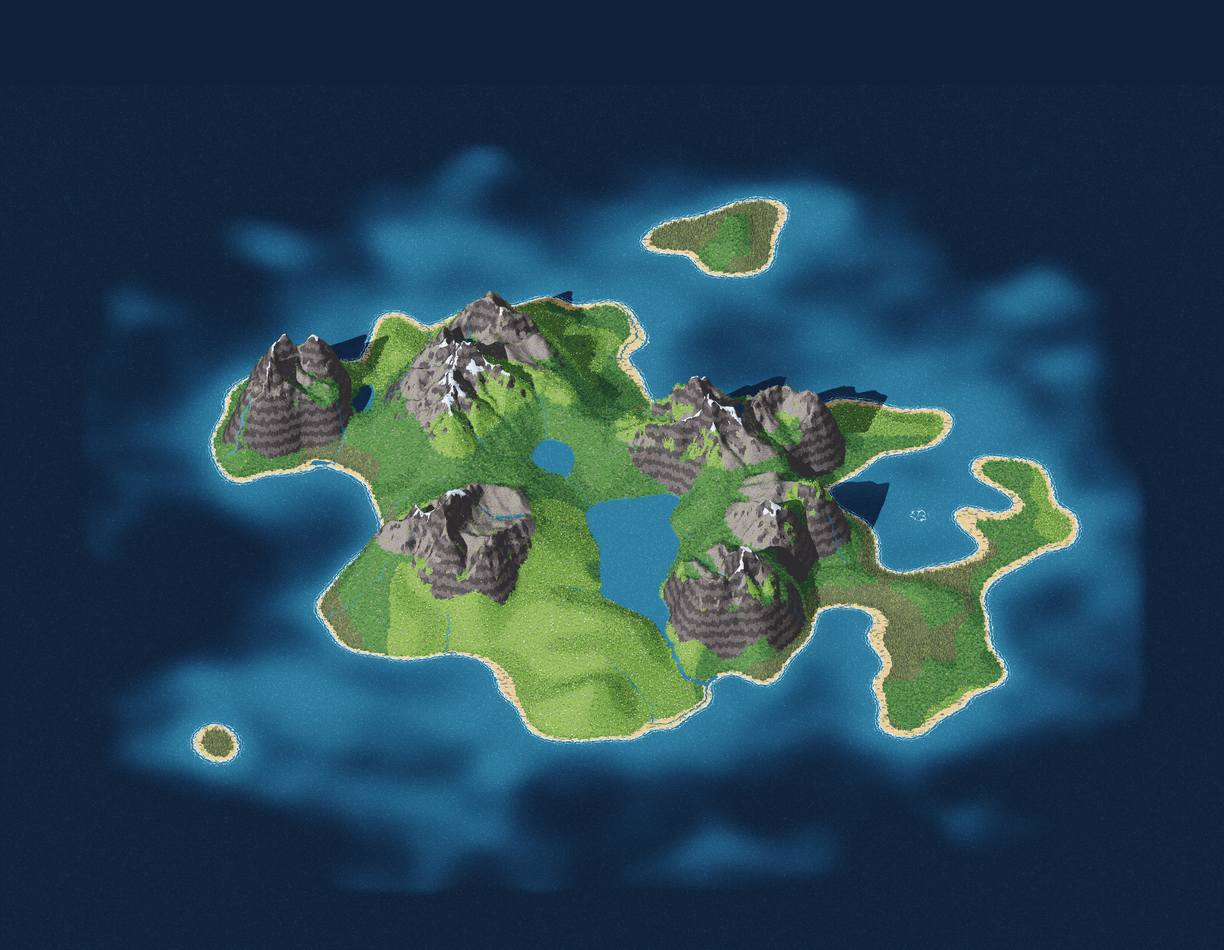
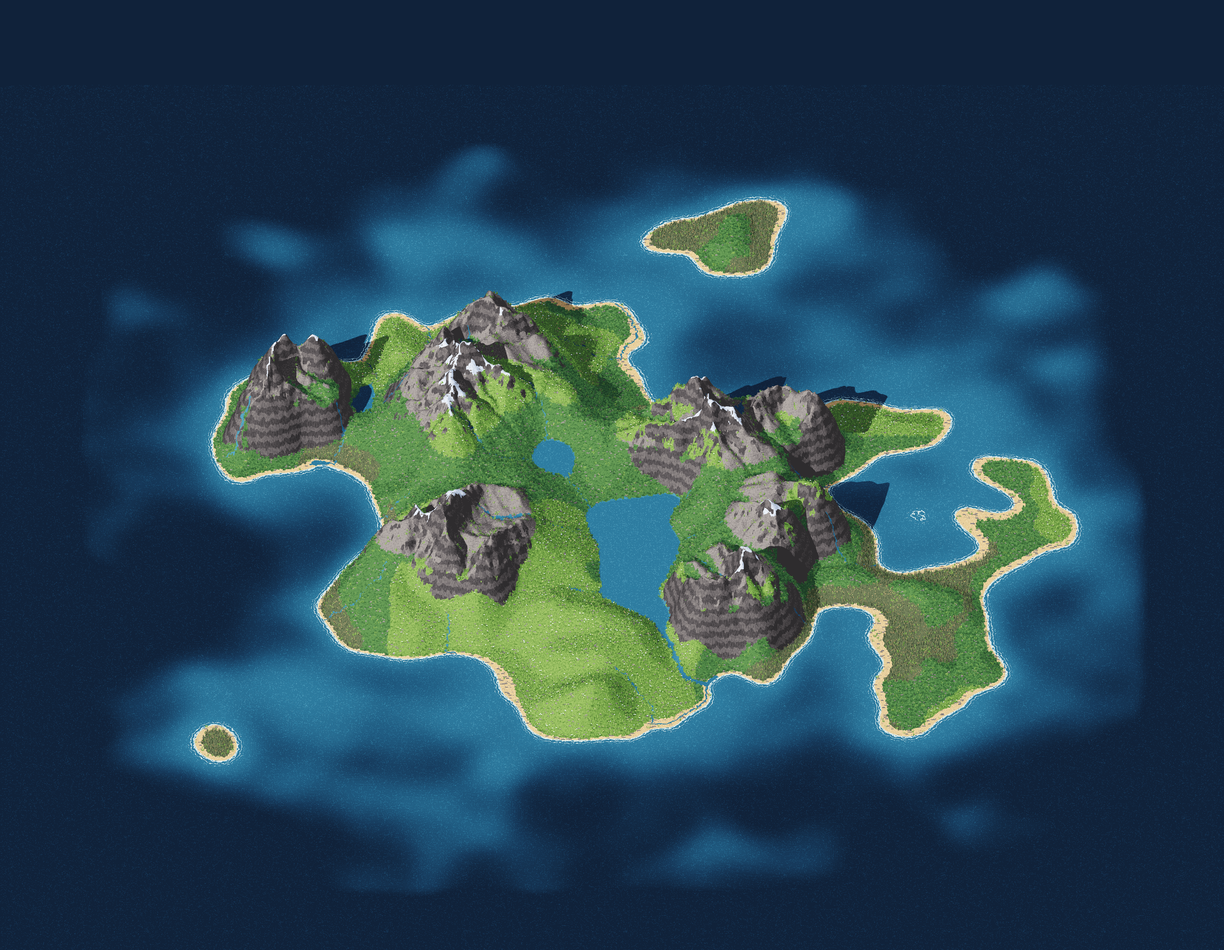
chore: tune exploring after playtesting milestone 4 (#103)
Closes #73. Closes #12.

The third of three stacked PRs, on top of #102. Merge #101 and #102
first.

## What changed

| Value | Before | After | Why |
|---|---|---|---|
| Peak prominence (`Peaks.MIN_PROMINENCE`) | 0.25 | 0.2 | Seed 2 had
only 3 peaks. |
| Peak height (`Peaks.MIN_HEIGHT`, new) | none | 0.5 of the summit |
Four of seeds 0 to 9 counted a lone lowland knoll at 29 to 58% of the
summit's height. |
| Survey zone (`Peak.ZONE_RADIUS`) | 3 cells | 5 cells | The figure now
walks up to the top itself, so 3 cells only made the player hunt for the
top. |
| Zone ring shows from (`Survey.MARKER_REACH`) | 6 cells | 10 cells |
Twice the zone. |
| Eye height (`LineOfSight.EYE_HEIGHT`) | 1.5 | 8 world units | The
player had to stand at a cliff's very edge to clear the fog below it. |
| Contour interval | 0.02 | 0.04, every fifth line one cell wide | The
sides of the massifs turned into solid bands of ink. |
| Walking speed (`Player.SPEED`) | 3.5 | 5 cells/s | Walks of 100 to 200
cells between massifs felt slow. |

The view radius stays at 40 to 120 cells. Letting tall land show from
further away was dropped: the camera looks down, so it would mostly add
land to the map, not to the screen.

The title backdrop (`game/backdrop.png`) is rendered again, since the
peak cutoffs change where `WaysUp` raises cells. `SPEC.md` records every
value and why.

## What I checked

- All 61 tests pass. The peak test now asks for at least 5 peaks and
[…]

diff --git a/SPEC.md b/SPEC.md
@@ -12,14 +12,14 @@ A run starts from a title screen with "Ny øy" and a small, optional seed field 
 
 ## Core mechanics
 
-**Line of sight.** You see a radius around you, and higher terrain blocks your view. The radius is 40 cells at sea level and grows to about 120 cells at summit height, so choosing which hill to climb is the main exploration decision. Land you have seen stays revealed and never fades back into fog. All radii are starting values to tune in milestone 4.
+**Line of sight.** You see a radius around you, and higher terrain blocks your view. The radius is 40 cells at sea level and grows to about 120 cells at summit height, so choosing which hill to climb is the main exploration decision. Land you have seen stays revealed and never fades back into fog. Milestone 4 kept these radii. Letting tall land show from further away was dropped: the camera looks down, so a peak only looks tall once the player is on it, and the extra land would show on the map but hardly on screen.
 
 **Automatic mapping.** The map fills in at two levels:
 
 - Walking marks land in your line of sight as seen. Seen land gets coastlines, rivers and rough outlines on the map.
 - Surveying from a peak marks land as surveyed. Surveyed land also gets contour lines.
 
-**Peaks and surveying.** The peaks stand on 6 to 9 massifs that the generator raises on purpose (generator step 1), and only massifs reach the snow. The generator stores every top that rises at least 25% of the summit's height above the saddle to any higher top. The massifs stand in ranges with saddles at about half the summit's height, and at 35% only 2 to 4 of their tops counted. Seeds 0 to 9 give 3 to 12 peaks, 8 of the 10 in the range of 5 to 10, a number to tune after playtesting. The player can walk from the start up to every peak's top, or a cell beside it (generator step 5). Each peak has a survey zone with a radius of 3 cells. Within 6 cells of an unsurveyed top, a thin ring floats over the zone's edge, so the player can find the top. It hangs 0.4 world units above the highest ground along that edge, bobs 0.15 units every 2 seconds, and pulses by dithering its light middle between two snow steps. It is about 4 pixels thick, light in the middle and dark at the edges, so it shows against snow and rock, and it dithers in and out over half a second. A circle painted on the ground came first, but it wobbled with every bump in the slope, and a width set in cells grew to 8 pixels where a steep slope faces the camera. With a 6-cell zone and no ring, the prompt came up well below the top of a steep peak. Standing in a zone shows "Kartlegg toppen". Pressing F walks the figure up to a cell beside the top along a path of steps it can take, a few cells at walking speed, and then plays a short survey animation. Before the walk, a survey started at the zone's edge happened below the top. Surveying uses the same line of sight with twice the walking radius and marks everything it reaches as surveyed. The animation ends with your character stacking a varde on the peak, so every surveyed peak gets one of your vardes on the map. Your vardes have no other effect. The survey takes about 6.5 seconds. For 5 seconds the camera pulls out over 2 seconds from zoom 40 to 120, three times the walking view, and turns once around, clockwise, in four quarter turns, so the player sees the fog clear on every side of the peak. The figure faces away from the camera and turns with it, so it looks out over each side as the camera shows it. A figure turning smoothly once around with the camera only swung within a quarter turn of facing the camera, and didn't read as looking around. Each side holds still for 0.85 seconds before the next 0.4-second turn, and the last turn ends as the look does, back at the heading the survey started from. Q and E do nothing during a survey. A smooth spin would hold the camera off its pixel grid for the whole 5 seconds, where the dither and the edges shimmer. Meanwhile the fog clears from the surveyed land in a ring that spreads from the peak over 4.5 seconds. Then the figure turns to the top, and over 1.5 seconds the varde goes up stone by stone as the camera comes back to zoom 40. A pull-out to 80 over 3 seconds looked tame and hurried, and at 160 the figure and the varde shrank to a few pixels. Each peak can be surveyed once. The varde is 12 flattened, faceted spheres in six layers of three, three, two, two, one and one stones, a little shorter than the figure, lit by the figure's shader in a stone ramp of every other rock step. Its shape comes from the peak's cell, so a peak always gets the same varde. It stands on the top cell, since the walk stops a cell short of it. Only where every cell around the top is cliff does the figure stand on the top, and then the varde goes up a cell away. The prompt reads "[F] Kartlegg toppen" in snow-white text with a dark outline at the bottom of the screen and fades in and out over 0.2 seconds. It is the first HUD element.
+**Peaks and surveying.** The peaks stand on 6 to 9 massifs that the generator raises on purpose (generator step 1), and only massifs reach the snow. The generator stores every top that stands at least 50% of the summit's height and rises at least 20% of it above the saddle to any higher top. The massifs stand in ranges with saddles at about half the summit's height, and at 35% only 2 to 4 of their tops counted. At 25%, seed 2 had 3 peaks, and four of seeds 0 to 9 counted a lone knoll at 29 to 58% of the summit's height, which the height cut now drops. Seeds 0 to 9 give 6 to 12 peaks, aiming for 5 to 10, with more on the islands that have room for more massifs. The player can walk from the start up to every peak's top, or a cell beside it (generator step 5). Each peak has a survey zone with a radius of 5 cells. Within 10 cells of an unsurveyed top, a thin ring floats over the zone's edge, so the player can find the top. It hangs 0.4 world units above the highest ground along that edge, bobs 0.15 units every 2 seconds, and pulses by dithering its light middle between two snow steps. It is about 4 pixels thick, light in the middle and dark at the edges, so it shows against snow and rock, and it dithers in and out over half a second. A circle painted on the ground came first, but it wobbled with every bump in the slope, and a width set in cells grew to 8 pixels where a steep slope faces the camera. With a 6-cell zone and no ring, the prompt came up well below the top of a steep peak, so the zone shrank to 3. Once the figure walked up to the top itself, 3 cells only made the player hunt for the top's few cells, so it grew to 5. Standing in a zone shows "Kartlegg toppen". Pressing F walks the figure up to a cell beside the top along a path of steps it can take, a few cells at walking speed, and then plays a short survey animation. Before the walk, a survey started at the zone's edge happened below the top. Surveying uses the same line of sight with twice the walking radius and marks everything it reaches as surveyed. The animation ends with your character stacking a varde on the peak, so every surveyed peak gets one of your vardes on the map. Your vardes have no other effect. The survey takes about 6.5 seconds. For 5 seconds the camera pulls out over 2 seconds from zoom 40 to 120, three times the walking view, and turns once around, clockwise, in four quarter turns, so the player sees the fog clear on every side of the peak. The figure faces away from the camera and turns with it, so it looks out over each side as the camera shows it. A figure turning smoothly once around with the camera only swung within a quarter turn of facing the camera, and didn't read as looking around. Each side holds still for 0.85 seconds before the next 0.4-second turn, and the last turn ends as the look does, back at the heading the survey started from. Q and E do nothing during a survey. A smooth spin would hold the camera off its pixel grid for the whole 5 seconds, where the dither and the edges shimmer. Meanwhile the fog clears from the surveyed land in a ring that spreads from the peak over 4.5 seconds. Then the figure turns to the top, and over 1.5 seconds the varde goes up stone by stone as the camera comes back to zoom 40. A pull-out to 80 over 3 seconds looked tame and hurried, and at 160 the figure and the varde shrank to a few pixels. Each peak can be surveyed once. The varde is 12 flattened, faceted spheres in six layers of three, three, two, two, one and one stones, a little shorter than the figure, lit by the figure's shader in a stone ramp of every other rock step. Its shape comes from the peak's cell, so a peak always gets the same varde. It stands on the top cell, since the walk stops a cell short of it. Only where every cell around the top is cliff does the figure stand on the top, and then the varde goes up a cell away. The prompt reads "[F] Kartlegg toppen" in snow-white text with a dark outline at the bottom of the screen and fades in and out over 0.2 seconds. It is the first HUD element.
 
 **The summit is hard to find.** Three to five contender peaks have heights within about 10 to 15% of each other, and only some of them reach snow. The generator rescales only the contenders into that band and leaves the smaller peaks and hills alone, which can be half the summit's height or lower. From below you can't tell which contender is highest. Cliffs and ridges block the direct way up, so you have to find a pass, a ridge or a valley that leads there. The generator guarantees at least one walkable route from the landing beach.
 
@@ -60,7 +60,7 @@ The style is detailed pixel art: individual pixels everywhere, textured material
 **The map screen** is ink on aged paper, drawn at 1024×1024 pixels (one pixel per cell) into a `SubViewport`. It opens as a square sheet 90% of the screen's height, with the run going on behind it on both sides, so the player can walk with the map open. M opens and closes it, and Escape closes it too. The sheet keeps the player in its middle until the player drags it. The mouse wheel or + and - zoom between the zoom that fits the whole island on the sheet and 1, 2 and 4 screen pixels per cell. It keeps its zoom between closing and reopening it within a run, and a new run opens at the first zoom again. North is always up. A red dot marks the player, with a pointer on its edge the way the figure faces and a faint red wedge toward where the camera looks, and a small ink cairn marks each varde the player has built.
 
 - Unknown cells stay blank paper, with a grain of stained pixels and yellowed edges. Seen land is a lighter paper washed 45% toward the middle step of its ground's ramp, with the coast in ink, rivers and lakes in blue ink, and faint dotted outlines around forest and snow. With plain paper and no wash, known land was hard to tell from the unknown around it. The sea the player has seen gets a pale wash, so the coast reads from both sides.
-- Surveyed land adds contour lines every 0.02 of the summit's height, 2 world units, and every fifth line is two cells wide. One fragment shader, `map/map.gdshader`, draws the whole map. A cell is on a line when a neighbor's height falls in a lower band, so each line is one pixel wide and unbroken. Marching squares turned out to be unneeded, since lines drawn per cell show no ragged steps at one pixel per cell. On steep cliffs the lines merge into solid ink.
+- Surveyed land adds contour lines every 0.04 of the summit's height, 4 world units or 40 m, and every fifth line is drawn in dark ink. At 0.02, with every fifth line two cells wide, the sides of the massifs turned into solid bands of ink, and the wide lines grew thick as the map zoomed in. One fragment shader, `map/map.gdshader`, draws the whole map. A cell is on a line when a neighbor's height falls in a lower band, so each line is one pixel wide and unbroken. Marching squares turned out to be unneeded, since lines drawn per cell show no ragged steps at one pixel per cell. On steep cliffs the lines merge into solid ink.
 - While the map is open, it redraws on each frame the knowledge texture changed, because walking adds coast and rivers too, not only surveys. The redraw is one pass of the shader over a million pixels on the GPU.
 - The paper and inks are the `MAP` ramps in `world/ramps.gd`. The art style stays open for later.
 
@@ -99,15 +99,15 @@ Generation runs on a background thread behind a short "charting the island" scre
 
 ## Runtime systems
 
-- **Line of sight** runs on the CPU and is recomputed only when the player enters a new cell. The 10 cells around the player always count as seen, because from a rounded top the rays pass over the slope just below it. On the summit of seed 0 only 49 of the 121 cells within 5 were seen, and at 4 cells the softened edge of the fog still covered the ground underfoot. `player/line_of_sight.gd` casts one ray per cell of the view's rim, 2π times the radius, from an eye 1.5 world units above the ground, the figure's height. Each ray samples every half cell and keeps the steepest slope from the eye so far, and a cell shows when its ground reaches that slope. At whole-cell samples, rays skipped 168 of the 4,800 cells inside the sea-level radius where they clipped a cell's corner. The radius grows in a straight line with the ground's height, from 40 cells at sea level to 120 on the summit. The sea is marked too, so the fog can cover the unknown sea. A cast takes 4.4 ms at sea level and 34 ms on the summit natively, and 5.9 ms and 45 ms in Chrome, so it runs on a `WorkerThreadPool` task and marks its cells when it finishes. Marking the 10,000 to 27,000 cells seen from a peak takes 0.4 to 1 ms on the main thread. A survey casts the same rays at twice the radius, which takes 80 to 180 ms natively for the 60,000 to 126,000 cells it reaches from the peaks of seeds 0 to 2, the most from the summit, so it runs on a worker too. Marking all of them in one frame took 6 to 11 ms, so the survey splits them into 48 bands by distance and marks each band as the ring reaches it.
-- **Knowledge** is one byte per cell: unknown (0), seen (1) or surveyed (2), and the map is drawn from it. `world/knowledge.gd` holds the bytes and an R8 texture of them, which both terrain materials carry as `knowledge_map`. Marking a cell only raises its level. The texture uploads once a frame, and only when a mark changed a cell. A full upload of the 1 MB grid costs 0.05 to 0.11 ms of CPU time natively (Forward+ and Compatibility) and 0.11 to 0.14 ms in Chrome, with no change in frame time even when it runs every frame, so there is no partial upload. The debug view's "Vis alt" button marks every cell surveyed. God mode (G) shows the whole island as surveyed, on the terrain and the map, without marking any cell, and line of sight pauses while it is on, so leaving it shows the fog as the player left it. A survey in god mode still marks what it reaches. God mode (`game/god_mode.gd`, debug builds only) also lets the player walk through anything at 1, 2, 4, 8 or 16 times the walking speed (keys 1 to 5, ×8 at first), zooms with the mouse wheel from 10 to 400 cells, jumps to the nearest unsurveyed peak with T, and shows every unsurveyed peak's zone ring at a fixed size on screen. A panel in the top left corner shows the seed, the cell, its height, slope, moisture and material, whether it is walkable, how many peaks are surveyed and where the nearest unsurveyed one lies. It gives heights and distances in meters at a map scale of 10 m per cell (`IslandData.METERS_PER_CELL`), so the island is about 10 km across and the summit stands at 1000 moh. The figure isn't drawn to that scale: it would be 15 m tall, and at the walking speed of 3.5 cells/s it would cover 126 km/h.
+- **Line of sight** runs on the CPU and is recomputed only when the player enters a new cell. The 10 cells around the player always count as seen, because from a rounded top the rays pass over the slope just below it. On the summit of seed 0 only 49 of the 121 cells within 5 were seen, and at 4 cells the softened edge of the fog still covered the ground underfoot. `player/line_of_sight.gd` casts one ray per cell of the view's rim, 2π times the radius, from an eye 8 world units above the ground. At the figure's height, 1.5, the player had to stand at the very edge of a cliff to clear the fog below it, which felt wrong from a camera that looks down. At 8 the player sees about twice as many cells on a massif's slopes, 5,000 against 2,500, for the same cost. Each ray samples every half cell and keeps the steepest slope from the eye so far, and a cell shows when its ground reaches that slope. At whole-cell samples, rays skipped 168 of the 4,800 cells inside the sea-level radius where they clipped a cell's corner. The radius grows in a straight line with the ground's height, from 40 cells at sea level to 120 on the summit. The sea is marked too, so the fog can cover the unknown sea. A cast takes 4.4 ms at sea level and 34 ms on the summit natively, and 5.9 ms and 45 ms in Chrome, so it runs on a `WorkerThreadPool` task and marks its cells when it finishes. Marking the 10,000 to 27,000 cells seen from a peak takes 0.4 to 1 ms on the main thread. A survey casts the same rays at twice the radius, which takes 80 to 180 ms natively for the 60,000 to 126,000 cells it reaches from the peaks of seeds 0 to 2, the most from the summit, so it runs on a worker too. Marking all of them in one frame took 6 to 11 ms, so the survey splits them into 48 bands by distance and marks each band as the ring reaches it.
+- **Knowledge** is one byte per cell: unknown (0), seen (1) or surveyed (2), and the map is drawn from it. `world/knowledge.gd` holds the bytes and an R8 texture of them, which both terrain materials carry as `knowledge_map`. Marking a cell only raises its level. The texture uploads once a frame, and only when a mark changed a cell. A full upload of the 1 MB grid costs 0.05 to 0.11 ms of CPU time natively (Forward+ and Compatibility) and 0.11 to 0.14 ms in Chrome, with no change in frame time even when it runs every frame, so there is no partial upload. The debug view's "Vis alt" button marks every cell surveyed. God mode (G) shows the whole island as surveyed, on the terrain and the map, without marking any cell, and line of sight pauses while it is on, so leaving it shows the fog as the player left it. A survey in god mode still marks what it reaches. God mode (`game/god_mode.gd`, debug builds only) also lets the player walk through anything at 1, 2, 4, 8 or 16 times the walking speed (keys 1 to 5, ×8 at first), zooms with the mouse wheel from 10 to 400 cells, jumps to the nearest unsurveyed peak with T, and shows every unsurveyed peak's zone ring at a fixed size on screen. A panel in the top left corner shows the seed, the cell, its height, slope, moisture and material, whether it is walkable, how many peaks are surveyed and where the nearest unsurveyed one lies. It gives heights and distances in meters at a map scale of 10 m per cell (`IslandData.METERS_PER_CELL`), so the island is about 10 km across and the summit stands at 1000 moh. The figure isn't drawn to that scale: it would be 15 m tall, and at the walking speed of 5 cells/s it would cover 180 km/h.
   - For the fog, Knowledge also keeps the time each cell was first seen, as a float per cell in an RF texture (`reveal_map`), and the shaders clear the fog from each cell over the second after it. The clock is Knowledge's own, advanced by the terrain node each frame, so the clearing pauses with the game and follows a movie's fixed frame rate. The upload of both grids, 5 MB, costs about 1.4 ms of CPU time in Forward+ and 2.9 ms in Compatibility, only on frames where the player learns new cells. A small texture that moves with the player and covers only the cells whose fog is still clearing would cut that, if it shows in the frame time.
   - The first cast of a run, from the start, runs on the main thread when the player is placed, and its fog counts as already cleared, so the run doesn't open in fog.
 - **Movement** is free movement checked against the grid, with no physics shapes for terrain. `generator/walkability.gd` holds the step check, and the route guarantee in generator step 6 uses the same check, so the player can never walk into a valley with no way out.
   - The sea and lakes block. Rivers can be waded. Blocking rivers too left 90 to 97% of the land reachable on seeds 0 to 4, but meant a detour round a spring every hundred cells or so along the coast.
   - Cliffs are cells. The generator marks every land cell with a step to a neighbor steeper than 60° as cliff, about 1.73 world units per cell at a summit of 100, and the same over the length of a corner step. Both cells of a steep step are cliff, so a wall is about two cells thick, its foot and its top. The player can't step onto a cliff, as they can't step into a lake, so every step between two open cells is walkable, and the terrain shader draws the same grid. With steps checked between cells along each axis instead, a cell at the foot of a wall drew as cliff with most steps open, and the player zigzagged up diagonal faces of about 68°. Cliffs cover 12 to 26% of the main island on seeds 0 to 9, and the start reaches 97 to 99% of the rest. At 63° they covered 8 to 19% and at 66° 4 to 12%. At 72° the player climbed spires and walked up walls. At 45° the eroded massifs were too steep to walk up on almost every side. In the prototype, with nothing carved, 1 of 15 peaks on seeds 0 and 2 could be reached at 45°, and 54 of 57 on seeds 0 to 7 at 60°. A corner step also needs both cells beside it open, so the player can't slip between two cliff corners. If the summit turns out too easy to reach, milestone 5 adds cliffs in the generator rather than invisible walls.
-  - The player walks 3.5 cells per second, in 8 directions with diagonals as fast as straight lines. It takes 0.15 s to reach full speed and to stop. At 6 cells per second, starting and stopping dead, the figure looked like it was sprinting and floated. The camera follows the player's height with a lag of 0.8 s, so the figure rises on screen while it climbs and sinks while it descends. With the camera locked on the feet, walking up a slope only slid the ground diagonally past a figure that never moved on screen. A move into a step the check refuses keeps only its east-west or north-south part, so the player slides along walls. The figure stands on the terrain mesh's triangles, not a smoothed height, so its feet meet the ground on steep slopes.
-  - The figure is a 3D model that code builds from spheres, capsules and boxes, drawn in the same low-resolution view as the terrain. It has a round head with eyes and hair painted on by the shader, a beanie, a coat, a pack, and arms and legs that swing from the shoulders and hips and bend at the elbows and knees. At zoom 40 it is about 12×25 pixels. Its shader snaps light to the figure ramps with the terrain's dithering, so it takes the sun's light and casts a real shadow. Light dithers only over the middle 30% of the gap between two steps, because dithering across the whole gap, as on the terrain, turned the coat into a checkerboard. The camera looks down at 45°, so it sees more of the crown than of the face. A cap over the whole crown hid the face down to the eyes, so the beanie sits high and to the back. The figure faces the nearest of 8 directions, and the legs make a full cycle every 2.4 cells walked, about 3 steps a second. The body drops 0.1 units, about 2 pixels, at each footfall and leans 0.12 radians forward, both scaled by the share of full speed, so the figure settles as it stops. It replaced a billboard of 10×16 pixels whose arms and legs were single pixels at zoom 40. A 2D sprite drawn from a skeleton was sharper but flat, and it would need its own views for each camera angle in the survey spin. The figure uses the depth test, so terrain in front hides it until the fade opens. It sits 0.3 world units nearer the camera than its feet, which doesn't move it on screen but keeps the boots out of a slope that rises to the side. At 0 the boots showed through the silhouette on steep rock. Where terrain or a ground detail hides part of the figure, that part draws as a flat silhouette in the coat's lightest red, so the player can tell standing behind a crest from standing in front of it. The coat's darkest step was the color of the figure in shade and didn't show. The figure marks the stencil buffer where it shows, and the silhouette draws only where that mark is missing, so a part hidden behind another part of the figure, such as the pack behind the torso, draws nothing. The camera follows the figure, and both snap to the same pixel grid, so the figure moves on screen only in whole pixels, and only while the camera catches up on its height.
+  - The player walks 5 cells per second, in 8 directions with diagonals as fast as straight lines. It takes 0.15 s to reach full speed and to stop. At 6 cells per second, starting and stopping dead, the figure looked like it was sprinting and floated, and at 3.5 the walks between massifs, often 100 to 200 cells, felt slow. The camera follows the player's height with a lag of 0.8 s, so the figure rises on screen while it climbs and sinks while it descends. With the camera locked on the feet, walking up a slope only slid the ground diagonally past a figure that never moved on screen. A move into a step the check refuses keeps only its east-west or north-south part, so the player slides along walls. The figure stands on the terrain mesh's triangles, not a smoothed height, so its feet meet the ground on steep slopes.
+  - The figure is a 3D model that code builds from spheres, capsules and boxes, drawn in the same low-resolution view as the terrain. It has a round head with eyes and hair painted on by the shader, a beanie, a coat, a pack, and arms and legs that swing from the shoulders and hips and bend at the elbows and knees. At zoom 40 it is about 12×25 pixels. Its shader snaps light to the figure ramps with the terrain's dithering, so it takes the sun's light and casts a real shadow. Light dithers only over the middle 30% of the gap between two steps, because dithering across the whole gap, as on the terrain, turned the coat into a checkerboard. The camera looks down at 45°, so it sees more of the crown than of the face. A cap over the whole crown hid the face down to the eyes, so the beanie sits high and to the back. The figure faces the nearest of 8 directions, and the legs make a full cycle every 2.4 cells walked, about 4 steps a second. The body drops 0.1 units, about 2 pixels, at each footfall and leans 0.12 radians forward, both scaled by the share of full speed, so the figure settles as it stops. It replaced a billboard of 10×16 pixels whose arms and legs were single pixels at zoom 40. A 2D sprite drawn from a skeleton was sharper but flat, and it would need its own views for each camera angle in the survey spin. The figure uses the depth test, so terrain in front hides it until the fade opens. It sits 0.3 world units nearer the camera than its feet, which doesn't move it on screen but keeps the boots out of a slope that rises to the side. At 0 the boots showed through the silhouette on steep rock. Where terrain or a ground detail hides part of the figure, that part draws as a flat silhouette in the coat's lightest red, so the player can tell standing behind a crest from standing in front of it. The coat's darkest step was the color of the figure in shade and didn't show. The figure marks the stencil buffer where it shows, and the silhouette draws only where that mark is missing, so a part hidden behind another part of the figure, such as the pack behind the torso, draws nothing. The camera follows the figure, and both snap to the same pixel grid, so the figure moves on screen only in whole pixels, and only while the camera catches up on its height.
   - The player walks at the same speed on every kind of ground for now. Slower forest, marsh and rivers are left for playtesting to decide (#52).
   - The player starts on a random beach cell of the main island that reaches at least 20,000 cells, so a cove walled in by cliffs can't trap them. From there 98 to 99% of the main island's open land, off lakes and cliffs, is reachable on seeds 0 to 4. Milestone 5 replaces this start with the landing beach.
 
